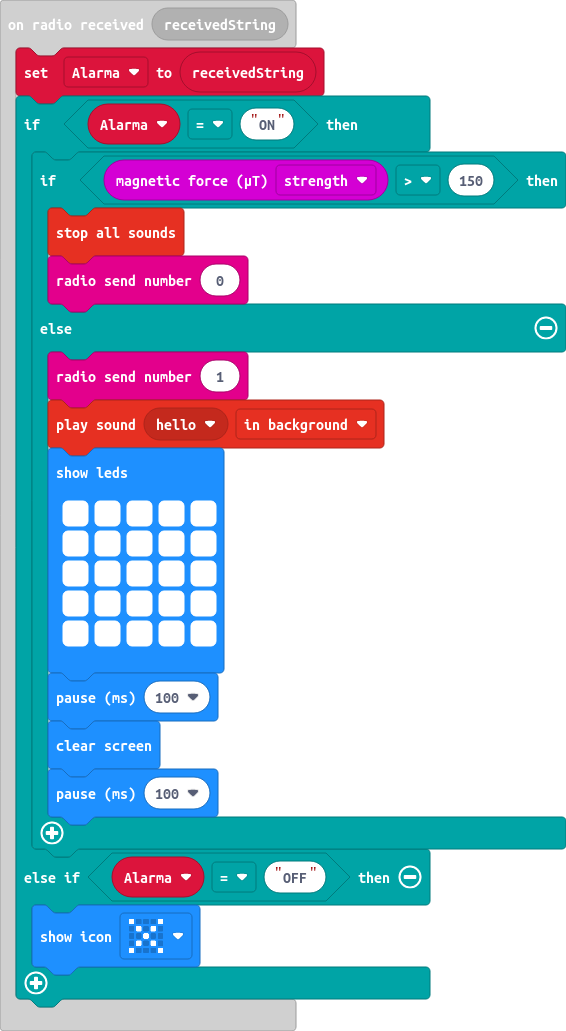
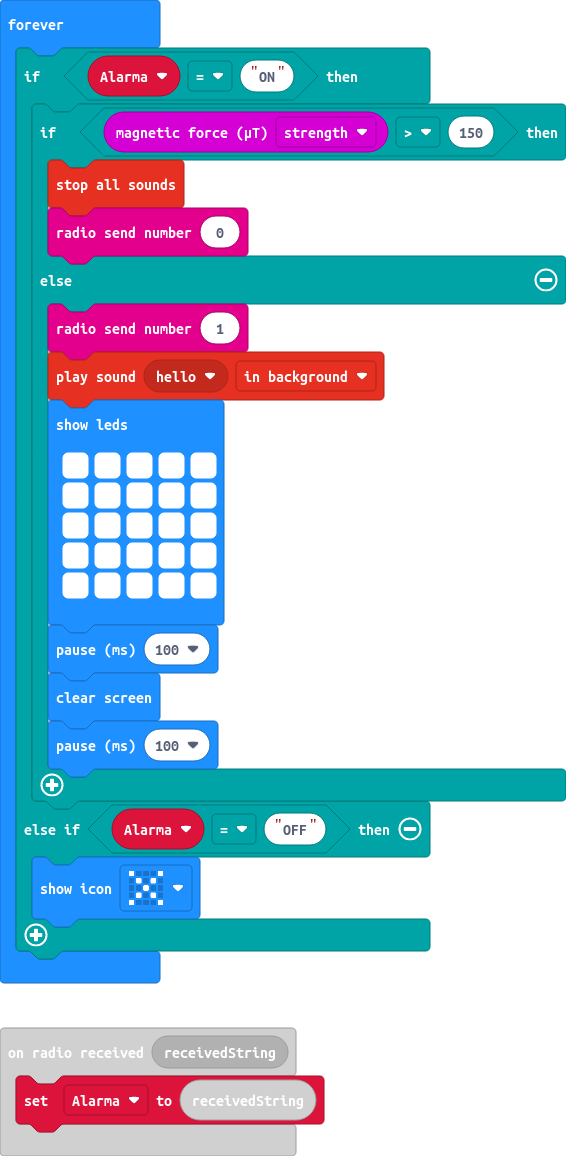
Update main.blocks, main.ts

diff --git a/main.ts b/main.ts
@@ -1,5 +1,10 @@
 radio.onReceivedString(function (receivedString) {
     Alarma = receivedString
+})
+let Alarma = ""
+radio.setGroup(76)
+music.setVolume(31)
+basic.forever(function () {
     if (Alarma == "ON") {
         if (input.magneticForce(Dimension.Strength) > 150) {
             music.stopAllSounds()
@@ -22,6 +27,3 @@ radio.onReceivedString(function (receivedString) {
         basic.showIcon(IconNames.No)
     }
 })
-let Alarma = ""
-radio.setGroup(76)
-music.setVolume(31)
